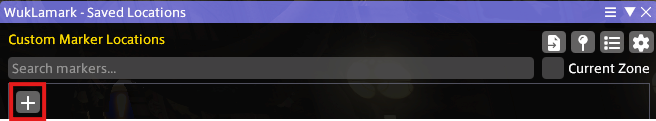
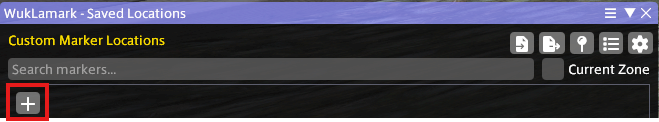
chore: update readme and description

diff --git a/WukLamark/Windows/Components/MarkerTableComponent.cs b/WukLamark/Windows/Components/MarkerTableComponent.cs
@@ -238,7 +238,7 @@ internal class MarkerTableComponent
 
         using (ImRaii.Disabled(!canDelete))
         {
-            if (ImGui.MenuItem("Delete"))
+            if (ImGui.MenuItem("Delete Marker"))
             {
                 var temp = new List<Marker> { marker };
                 OnDeleteRequested?.Invoke(temp);

diff --git a/README.md b/README.md
@@ -10,16 +10,16 @@ A Final Fantasy XIV plugin for making custom map markers around Eorzea.
 WukLamark is a plugin that allows players to create and manage custom map markers around Eorzea. Whether it's that one spot you use often for GPosing, a venue you frequented once but decided to go again or simply anything that you find interesting, WukLamark will allow you to create a custom map marker for it and make it appear on both the main map and the minimap itself! Think of it as `<flag>` but permanent.
 
 ## Features
-- Create and manage custom map markers
-- Configure how map markers are displayed on the map and minimap
-- Set different icons for map markers (shapes or game icons)
-- Add personal notes to map markers
-- Set different scopes for map markers (personal, shared)
-   > Shared map markers are visible to anyone who logs into the game from your computer.
-- Per-world, per-data center or global map markers
-- Group map markers for different purposes
-- Import map markers from other players/Export map markers to other players
-- Displays in-game locations and world locations by name
+- Create and manage persistent custom map markers.
+- Configure how map markers are displayed on the map and minimap.
+- Set how map markers look on the map and minimap using shapes or in-game icons.
+- Add personal notes to map markers.
+- Set different map marker visibility settings for map markers (per-character vs shared on this PC).
+- Crossworld markers (appear on matching maps across worlds/data centers).
+- Group map markers for different purposes.
+- Batch import/export map markers to share with your friends.
+- Customize the colors of in-game icons.
+- Display in-game locations (territory/world/ward) by name.
 
 ## How To Use
 
@@ -31,33 +31,59 @@ To create a map marker, you can use the `/wlmark here` command in chat or open t
 | --- | --- |
 | ![Create Marker](./.github/assets/CommandCreateMarker.png) | ![Create Marker](./.github/assets/WindowCreateMarker.png) |
 
+> For the GUI, holding `Shift` while clicking the `Create Marker` button will create a Crossworld map marker instead of a world-specific map marker.
+
 ### Editing a Map Marker
 
 To edit a map marker, open the WukLamark window and click the `Edit Marker` button.
 
 ![Edit Marker](./.github/assets/WindowEditMarker.png)
 
-> `Color` and `Shape` are only applicable to No Icon map markers. Scope is only applicable to map markers that are not in a group. Map markers in a group will inherit the scope of the group. 
+> `Shape` is only applicable to No Icon map markers. `Scope` is only applicable to map markers that are not in a group. Map markers in a group will inherit the scope of the group. `Color` is only applicable to No Icon map markers unless `Apply Shape Color to Icon` is enabled.
 
 ### Making a Map Marker Global
 
-To make a map marker global, open the WukLamark window and click the `Edit Marker` button. Then, click the `Visible Across Worlds/DCs` checkbox.
+To make a map marker global, open the WukLamark window and click the `Edit Marker` button. Then, click the `Visible Crossworld` checkbox.
 
-### Deleting a Map Marker
+### Deleting a Map Marker(s)
 
-To delete a map marker, open the WukLamark window and click the `Delete Marker` button.
+#### Deleting a Single Map Marker
+
+To delete a map marker, open the WukLamark window, right-click the marker you wish to delete and click the `Delete Marker` button.
 
 ![Delete Marker](./.github/assets/WindowDeleteMarker.png)
 
-### Sharing a Map Marker to Others Using WukLamark
+#### Deleting Multiple Map Markers
 
-To share a map marker with others, open the WukLamark window and click the `Copy to Clipboard` button.
+To delete multiple map markers, open the WukLamark window, shift-click or ctrl-click the markers you wish to delete, right-click any of the selected markers and click the `Delete Selected Markers` button.
+
+![Delete Markers](./.github/assets/WindowDeleteMarkers.png)
+
+> If you select a marker that you do not have permission to delete, it will not be included in the deletion and the delete button may be grayed out or say `Delete N of Y Markers`.
+
+### Sharing a Map Marker
+
+#### Sharing a Single Map Marker
+
+To share a map marker with others, open the WukLamark window, right-click the marker you wish to share and click the `Copy to Clipboard` button.
 
 ![Share Map Marker](./.github/assets/WindowShareWaymark.png)
 
-To import a map marker from someone else, open the WukLamark window and click the `Import Map Markers from Clipboard` button.
+#### Sharing Multiple Map Markers
 
-![Import Map Marker](./.github/assets/WindowImportWaymark.png)
+To share multiple map markers with others, open the WukLamark window, shift-click or ctrl-click the markers you wish to share, right-click any of the selected markers and click `Export Selected Markers`.
+
+![Export Markers](./.github/assets/WindowShareMarkers.png)
+
+   > Alternatively, you can click the `Export Selected Marker(s) to Clipboard` button at the top of the window.
+
+   ![Export Markers Alt](./.github/assets/WindowShareMarkersAlt.png)
+
+### Importing Map Markers
+
+To import map markers from someone else, open the WukLamark window and click the `Import Markers from Clipboard` button.
+
+![Import Markers](./.github/assets/WindowImportWaymark.png)
 
 ## Groups
 
@@ -77,23 +103,35 @@ A group is a collection of map markers. To create a group, switch to the Group V
 | ![Group Map Marker Create](./.github/assets/GroupWaymarkCreate.png) | ![Group Map Marker Create](./.github/assets/GroupWaymarkCreateGUI.png) 
 |
 
+> For the GUI, holding `Shift` while clicking the `Create Marker` button will create a Crossworld map marker instead of a world-specific map marker in the group.
+
 **Existing Map Markers**
 
 ![Group Map Marker Existing](./.github/assets/GroupWaymarkExistingGUI.png)
 
 ## Editing a Group
 
-To edit a group, click the pencil icon on the right-side.
-> This ability is grayed-out for Shared groups set to read-only (only editable by the owner of the group). Non-owners can only edit the name of Shared groups for non-read-only groups.
+To edit a group, click the `...` button on the right-side of the group header and click `Edit Group`.
 
 ![Group Edit](./.github/assets/GroupEdit.png)
 
+> This ability is grayed-out for Shared groups set to read-only for non-owners.
+
 ## Deleting a Group
 
-To delete a group, click the trash icon on the right-side.
+To delete a group, click the `...` button on the right-side of the group header and click `Delete Group`.
+
 > This ability is grayed-out for Shared groups set to read-only for ALL users. Owners of groups wishing to delete groups should turn off read-only mode before deleting. If map markers exist in the group you wish to delete, you will be asked whether to keep them or not.
 
-![Group Delete](./.github/assets/GroupDelete.png)
+## Exporting Group Markers
+
+To export all markers in a group, click the `...` button on the right-side of the group header and click `Export Markers`.
+
+## Importing Group Markers
+
+To import markers into a group, click the `Import` button on the right-side of the group header.
+
+![Import Group Markers](./.github/assets/GroupImportMarkers.png)
 
 ## Configuration
 
@@ -105,8 +143,8 @@ To delete a group, click the trash icon on the right-side.
 ### Enable Marker Display on Minimap
 > This option allows you to enable or disable the display of map markers on the minimap.
 
-### Marker Size
-> This option allows you to change the size of the map markers on the map and minimap. (Only applicable to No Icon map markers)
+### Default Marker Icon/Shape Size
+> This sets the default size of map markers on the map and minimap. To override this, edit the marker and change the size under `Shape/Icon Size`.
 
 ### Fade Markers on Minimap Edge
 > This option toggles the fade effect map markers apply to themselves when at the edge of the minimap.
